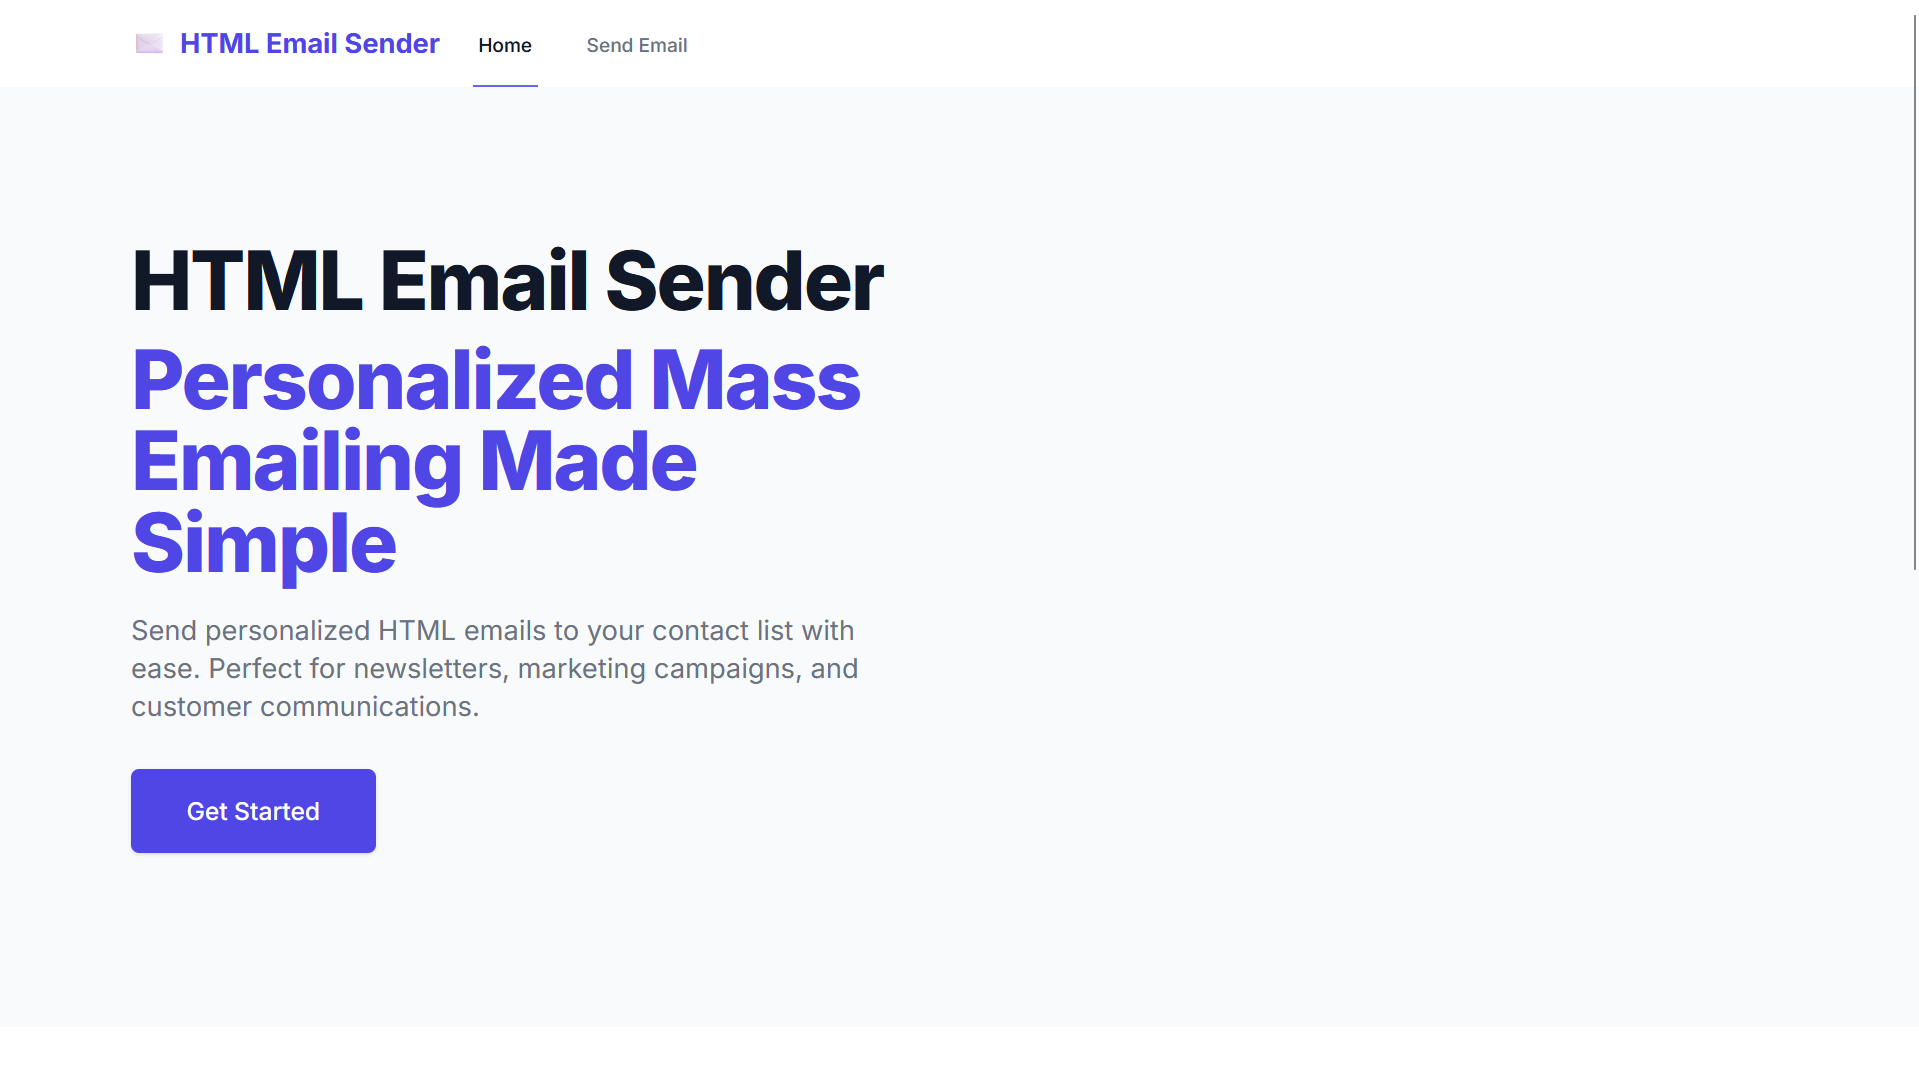
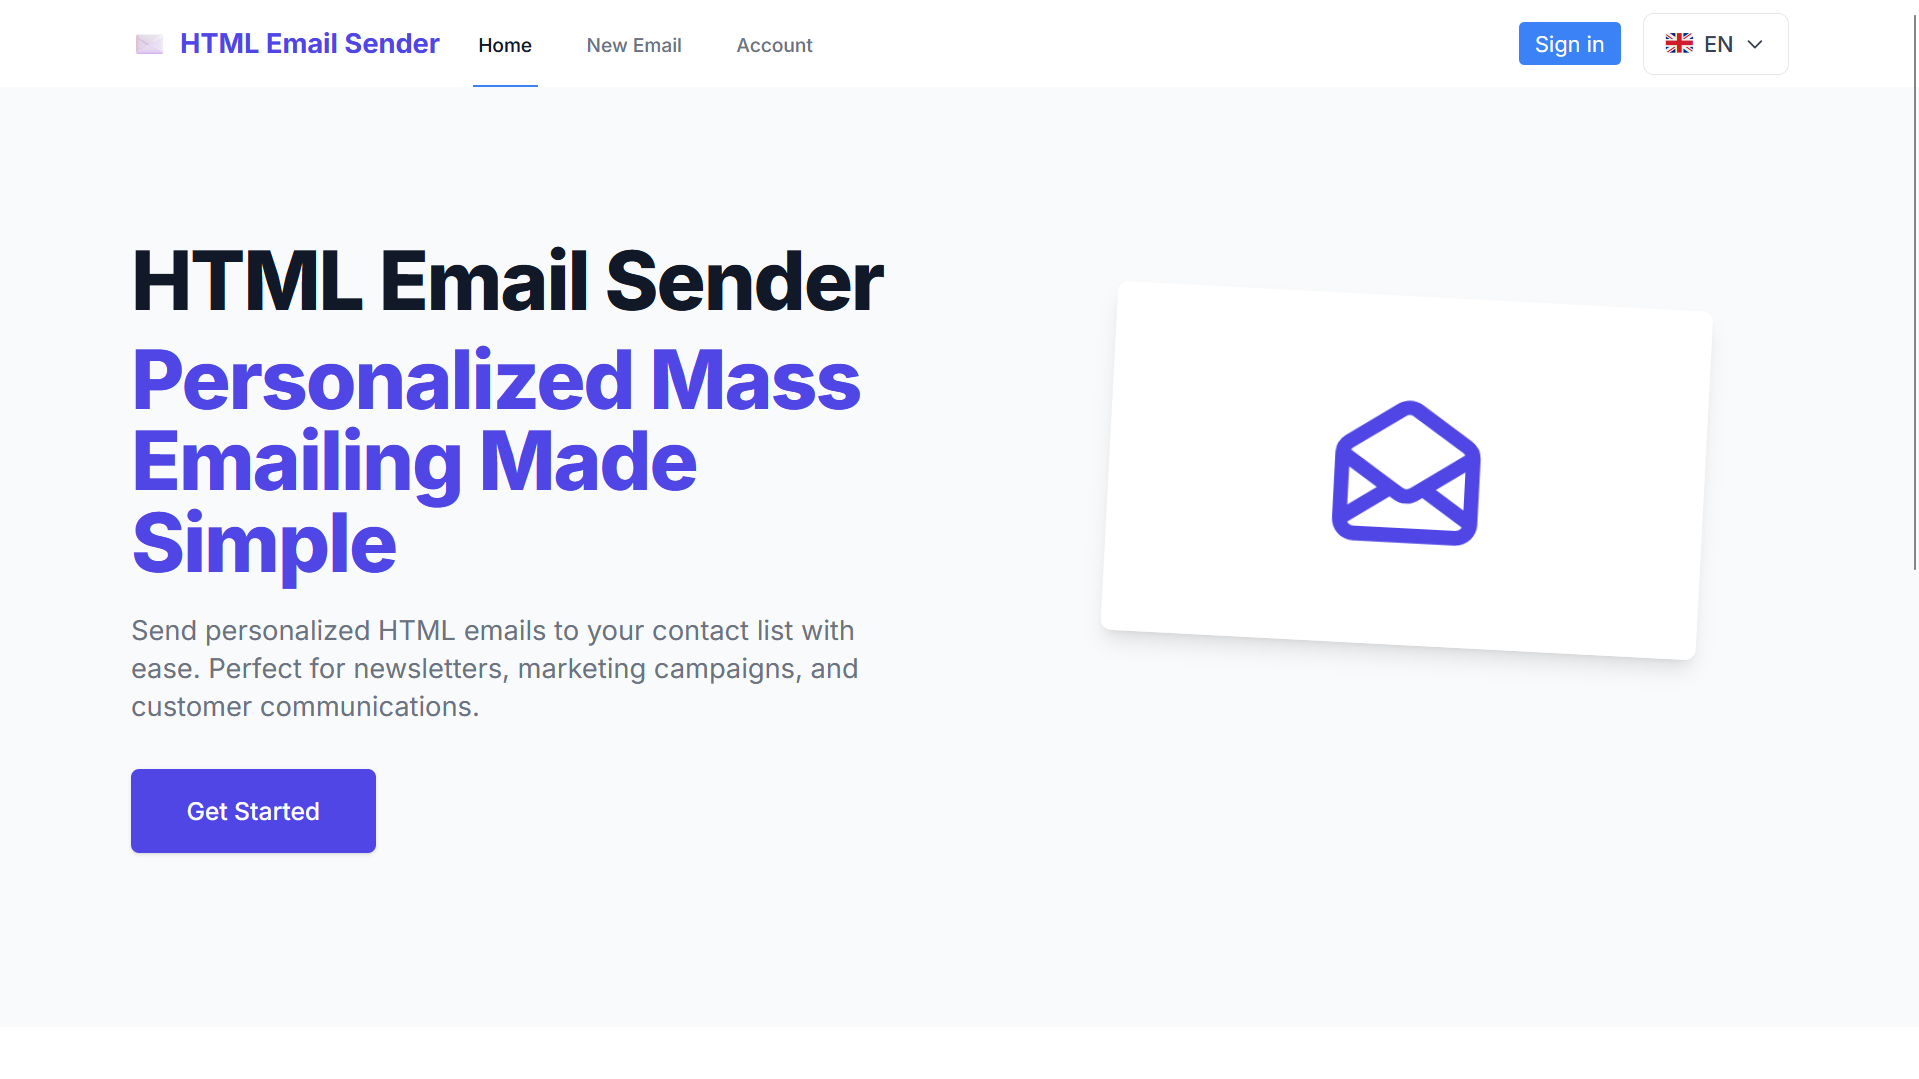
chore: update portfolio content and employment status
- Add new SOGEA administrative assistant role (Oct 2025 - Present)
- Update employment status to reflect current position
- Add Rust to skills list (hidden from display)
- Update inventory management project details with Tauri v2 migration
- Replace project images with updated versions
- Enhance project descriptions with technical improvements
- Remove "open to job" indicator from sidebar

Changed region(s): [[0.6764, 0.367, 0.7686, 0.5199], [0.7686, 0.0, 0.9224, 0.0612], [0.3075, 0.0306, 0.4304, 0.0612]]

diff --git a/src/Service/PortfolioService.php b/src/Service/PortfolioService.php
@@ -20,6 +20,7 @@ class PortfolioService
                     [ 'icon' => 'fa-brands fa-php', 'name' => 'PHP', 'display' => true ],
                     [ 'icon' => 'fa-brands fa-python', 'name' => 'Python', 'display' => true ],
                     [ 'icon' => 'fa-brands fa-java', 'name' => 'Java', 'display' => true ],
+                    [ 'icon' => 'fa-brands fa-rust', 'name' => 'Rust', 'display' => false ],
                     [ 'icon' => 'fa-brands fa-kotlin', 'name' => 'Kotlin', 'display' => false ],
                     [ 'icon' => 'fa-brands fa-swift', 'name' => 'Swift', 'display' => false ]
                 ]
@@ -98,6 +99,19 @@ class PortfolioService
     public function getExperiences(): array
     {
         return [
+            [
+                'title' => 'experiences.sogea2.title',
+                'company' => 'SOGEA Environnement (Groupe VINCI)',
+                'location' => 'experiences.sogea2.location',
+                'period' => 'experiences.sogea2.period',
+                'logo' => 'companies/sogea.png',
+                'description' => [
+                    'experiences.sogea2.description.1',
+                    'experiences.sogea2.description.2'
+                ],
+                'technologies' => array_map(fn($tech) => $this->findTechByName($tech), 
+                    ['HTML', 'CSS', 'TypeScript', 'Rust', 'Next.js', 'Tailwind CSS', 'SQLite', 'Agile', 'Git'])
+            ],
             [
                 'title' => 'experiences.sogea.title',
                 'company' => 'SOGEA Environnement (Groupe VINCI)',
@@ -194,7 +208,7 @@ class PortfolioService
                 'website' => null,
                 'demo' => 'https://inventory-management-simple-demo.vercel.app/',
                 'technologies' => array_map(fn($tech) => $this->findTechByName($tech), 
-                    ['HTML', 'CSS', 'JavaScript', 'TypeScript', 'Next.js', 'Tailwind CSS', 'Node.js', 'SQLite', 'PostgreSQL', 'REST APIs', 'Agile', 'Git'])
+                    ['HTML', 'CSS', 'JavaScript', 'TypeScript', 'Rust', 'Next.js', 'Tailwind CSS', 'Node.js', 'SQLite', 'PostgreSQL', 'REST APIs', 'Agile', 'Git'])
             ],
             [
                 'title' => 'projects.klimber_kids.title',
